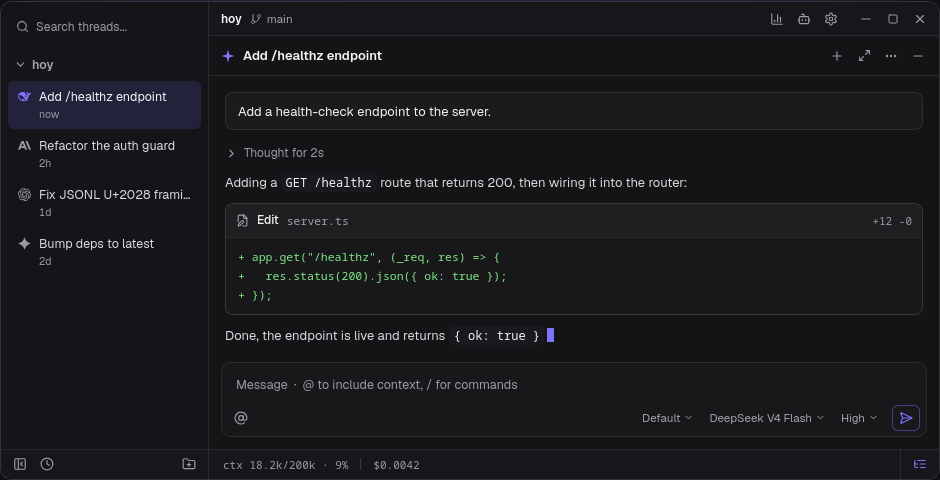
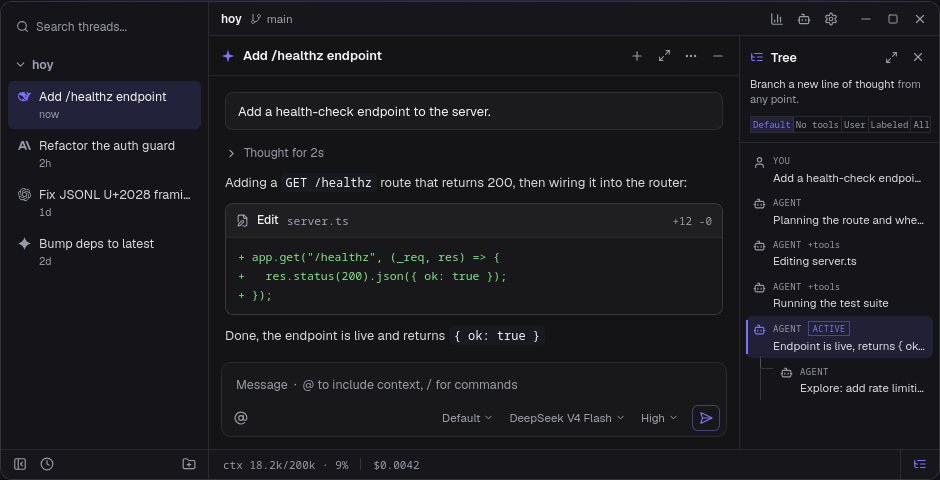
site: show the tree dock in the mobile app-mock PNG
Regenerate the phone-fallback capture from the full three-column hero (tree
dock visible) so it features the session tree like the desktop mock, rather
than the two-pane version. Restores the tree mention in the image alt text.

diff --git a/apps/site/app/page.tsx b/apps/site/app/page.tsx
@@ -80,7 +80,7 @@ export default async function Home() {
             <Image
               className="hero-shot"
               src={appMock}
-              alt="The Hoy desktop app, a sidebar of threads on the left each marked with its model's provider icon, an open thread adding a health-check endpoint, an inline Edit diff on server.ts, and a composer at the bottom with the DeepSeek V4 Flash model selected."
+              alt="The Hoy desktop app, a sidebar of threads on the left each marked with its model's provider icon, an open thread adding a health-check endpoint, an inline Edit diff on server.ts, a composer at the bottom with the DeepSeek V4 Flash model selected, and the Tree navigator open on the right."
               sizes="(max-width: 720px) 92vw, 940px"
             />
           </div>